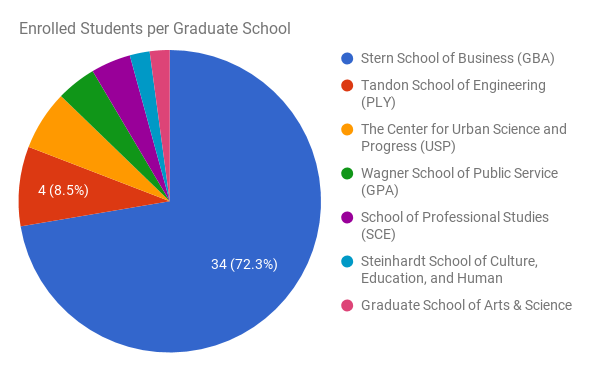
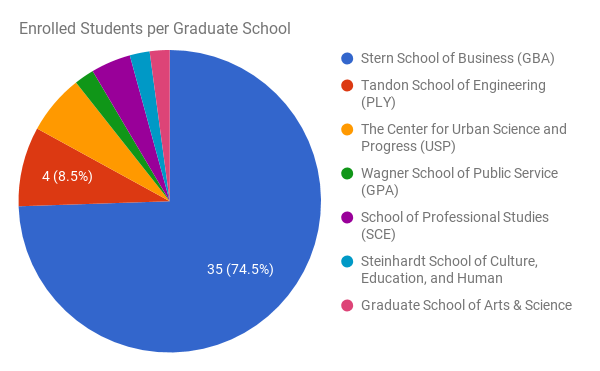
Update chart to reflect current roster

Changed region(s): [[0.03, 0.2075, 0.3, 0.6226], [0.33, 0.6819, 0.48, 0.7412]]

diff --git a/README.md b/README.md
@@ -43,7 +43,7 @@ See the [contributor's guide](/CONTRIBUTING.md) for instructions on how to add o
 
 ## Learning Community
 
-The maximum enrollment for this section is 50 students. Enrolled students represent a variety of gradue programs of study, however more than 70% are in the Stern School of Business.
+The maximum enrollment for this section is 50 students. Enrolled students represent a variety of graduate programs of study, however as of the first day of class, roughly 75% are in the Stern School of Business.
 
 ![A pie chart showing 72% of enrolled students are in the Stern School of Business.](/enrolled-students-per-school.png)
 
